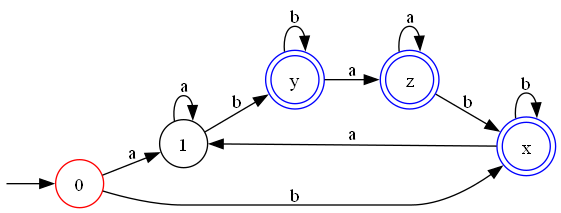
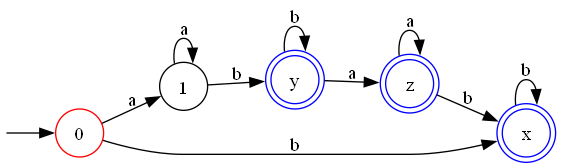
DFA_visualization: table fatal bug fixed
Not all possible inputs have to be present in every state.

Changed region(s): [[0.0, 0.0595, 1.0, 0.9821], [0.303, 0.744, 0.3636, 0.8036], [0.9091, 0.3571, 0.9394, 0.3869]]

diff --git a/Visualization/DFA_visualization.cpp b/Visualization/DFA_visualization.cpp
@@ -5,6 +5,7 @@
 #include <map>
 #include <unordered_map>
 #include "../LexicalRules/RuleTree.h"
+#include <set>
 using namespace std;
 
 void exportDfaTable(const vector<map<char, int>>& dfaTable, int startState, const unordered_map<int, tuple<string, Priority, int>>& finalStates, const string& filePath) {
@@ -15,19 +16,28 @@ void exportDfaTable(const vector<map<char, int>>& dfaTable, int startState, cons
         return;
     }
 
-    // Write the DFA table to the file
+    // 1. Obtain all input characters in an ordered set
+    set<char> allInputs;
+    for (const auto& state : dfaTable) {
+        for (const auto& entry : state) {
+            allInputs.insert(entry.first);
+        }
+    }
+
+    // 2. Write the DFA table to the file
     outFile << setw(5) << "State";
-    for (const auto& entry : dfaTable[0]) {
-        outFile << setw(5) << entry.first;
+    for (const auto& input : allInputs) {
+        outFile << setw(5) << input;
     }
     outFile << "\n";
 
     for (int i = 0; i < dfaTable.size(); ++i) {
         outFile << setw(5) << i;
-        for (const auto& entry : dfaTable[i]) {
+        for (const auto& input : allInputs) {
             outFile << setw(5);
-            if (entry.second >= 0) {
-                outFile << entry.second;
+            auto transition = dfaTable[i].find(input);
+            if (transition != dfaTable[i].end()) {
+                outFile << transition->second;
             } else {
                 outFile << "";
             }
@@ -94,7 +104,7 @@ int main() {
     vector<map<char, int>> dfaTable = {
         {{'a', 1}, {'b', 2}},
         {{'a', 1}, {'b', 3}},
-        {{'a', 1}, {'b', 2}},
+        {{'b', 2}},
         {{'a', 4}, {'b', 3}},
         {{'a', 4}, {'b', 2}}
     };
